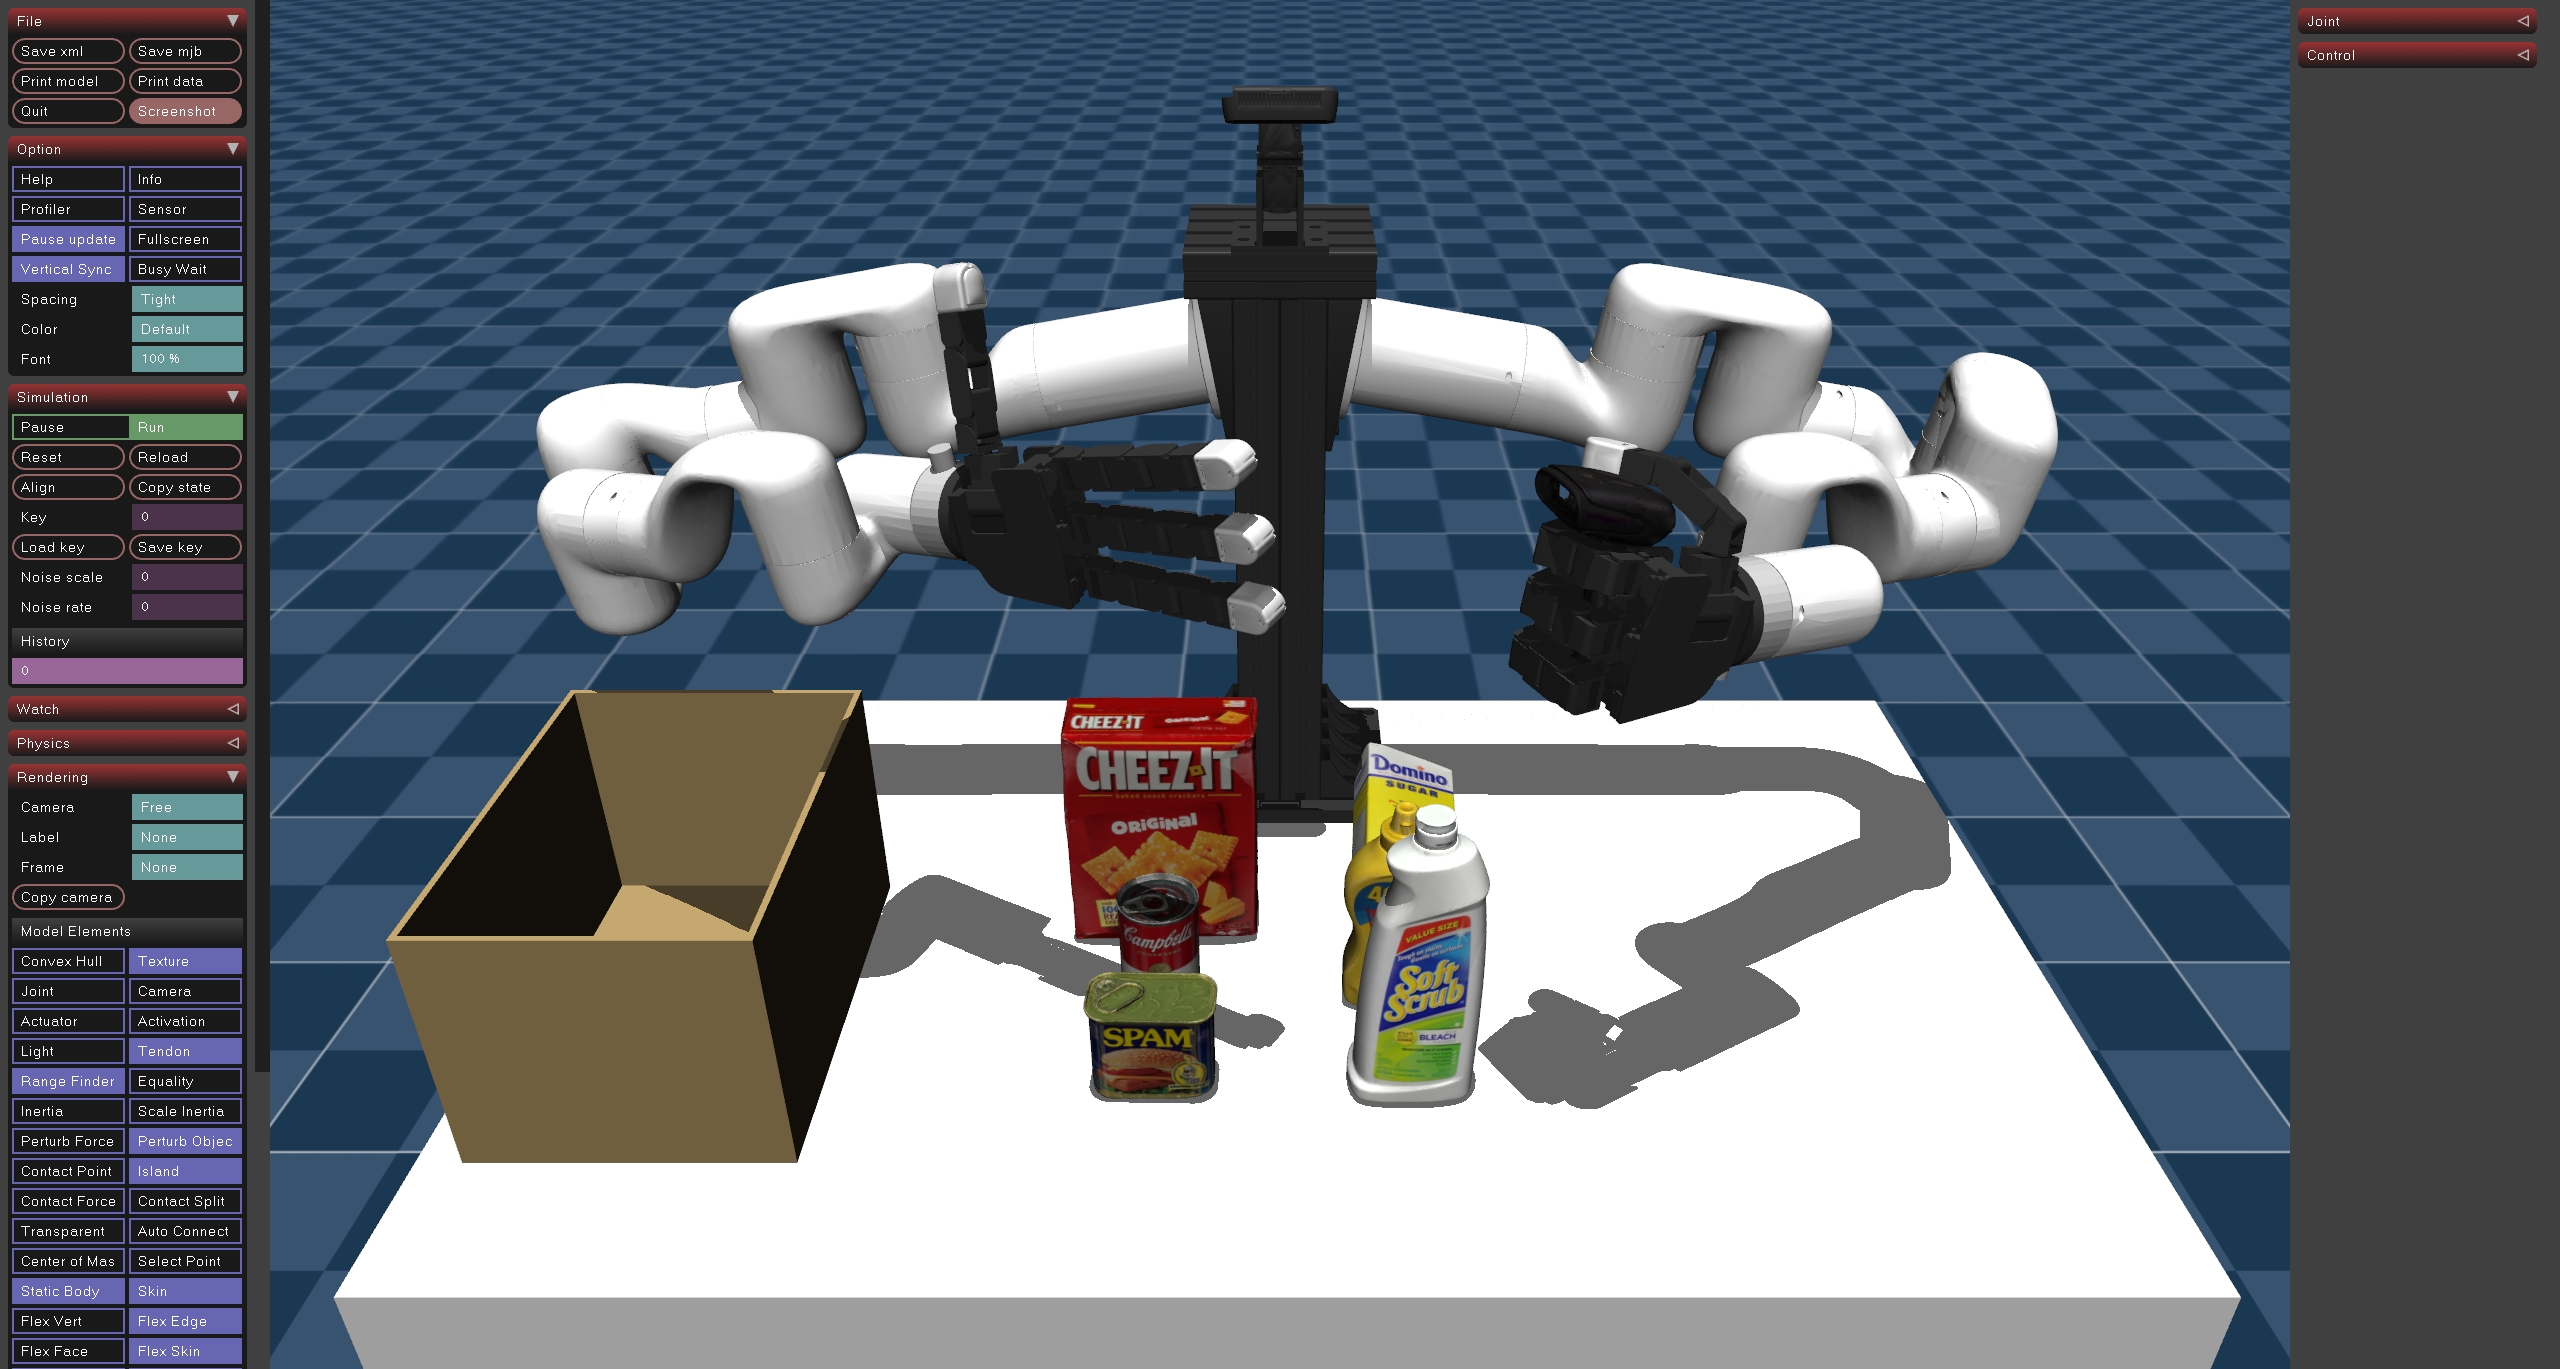
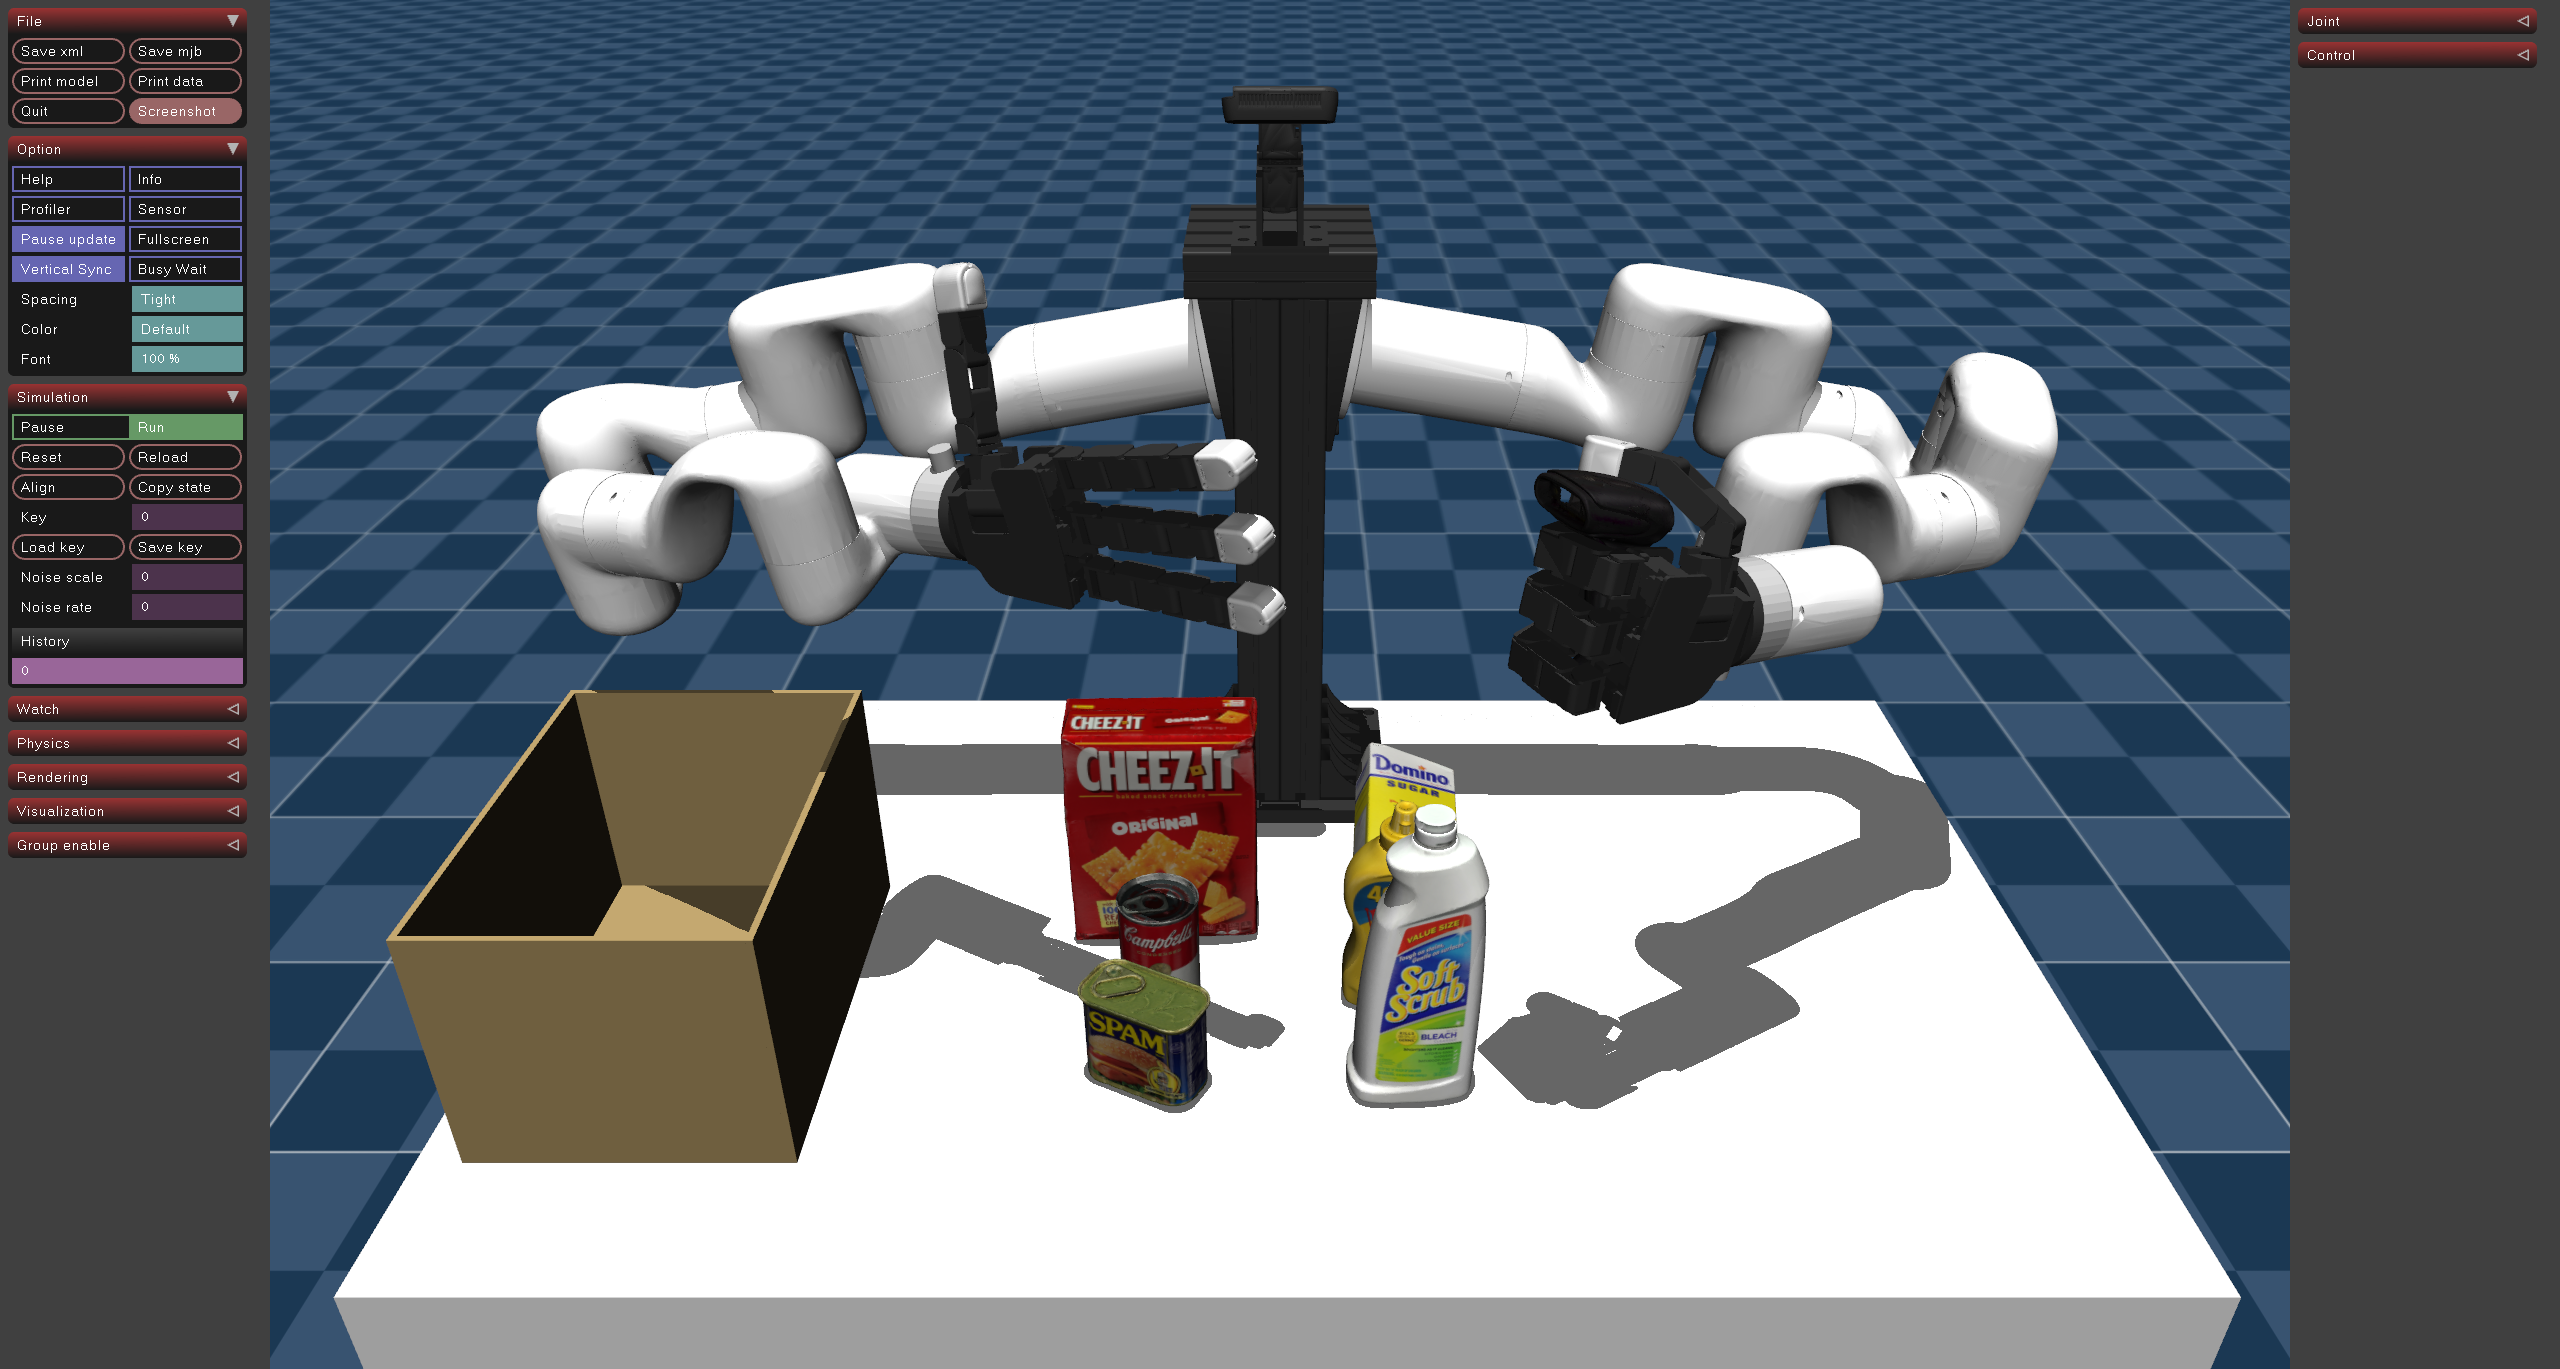
Remove dependency on dm_control package

diff --git a/make_mjcf_model.py b/make_mjcf_model.py
@@ -1,7 +1,6 @@
 import os
 
 import mujoco
-from dm_control.utils import transformations
 from mujoco import viewer
 
 
@@ -30,7 +29,7 @@ if __name__ == '__main__':
     left_robot_arm = mujoco.MjSpec.from_file(robot_xml_path)
     left_robot_arm.modelname = 'xarm7_left'
     left_robot_arm_attachment_frame = scene.worldbody.add_frame(pos=[-0.05692, 0, 0.44761],
-                                                                quat=transformations.euler_to_quat([mujoco.mjPI/2, 0, -mujoco.mjPI*5/9], ordering='ZYX'))
+                                                                euler=[0, -mujoco.mjPI*5/9, mujoco.mjPI/2])
     
     # Left robot hand (allegro)
     left_robot_hand_xml_path = os.path.join(os.getcwd(), 'wonik_allegro', 'left_hand.xml')
@@ -42,7 +41,7 @@ if __name__ == '__main__':
                         rgba=[0.2, 0.2, 0.2, 1],
                         pos=[0, 0, -0.005])
     left_robot_hand_attachment_frame = left_mount.add_frame(pos=[0, 0, 0.095],
-                                                            quat=transformations.euler_to_quat([0, -mujoco.mjPI/2, 0]))
+                                                            euler=[0, -mujoco.mjPI/2, 0])
     left_robot_arm.attach(child=left_robot_hand,
                           prefix=left_robot_hand.modelname + '/',
                           frame=left_robot_hand_attachment_frame)
@@ -54,7 +53,7 @@ if __name__ == '__main__':
     right_robot_arm = mujoco.MjSpec.from_file(robot_xml_path)
     right_robot_arm.modelname = 'xarm7_right'
     right_robot_arm_attachment_frame = scene.worldbody.add_frame(pos=[0.05692, 0, 0.44761],
-                                                                 quat=transformations.euler_to_quat([mujoco.mjPI/2, 0, mujoco.mjPI*5/9], ordering='ZYX'))
+                                                                 euler=[0, mujoco.mjPI*5/9, mujoco.mjPI/2])
     
     # Right robot hand (allegro)
     right_robot_hand_xml_path = os.path.join(os.getcwd(), 'wonik_allegro', 'right_hand.xml')
@@ -66,7 +65,7 @@ if __name__ == '__main__':
                          rgba=[0.2, 0.2, 0.2, 1],
                          pos=[0, 0, -0.005])
     right_robot_hand_attachment_frame = right_mount.add_frame(pos=[0, 0, 0.095],
-                                                              quat=transformations.euler_to_quat([0, -mujoco.mjPI/2, 0]))
+                                                              euler=[0, -mujoco.mjPI/2, 0])
     right_robot_arm.attach(child=right_robot_hand,
                            prefix=right_robot_hand.modelname + '/',
                            frame=right_robot_hand_attachment_frame)
@@ -80,9 +79,8 @@ if __name__ == '__main__':
     # barcode_scanner.default.mesh.inertia = 'exact'
     barcode_scanner.default.geom.condim = 6
     barcode_scanner.default.geom.priority = 1
-    barcode_scanner.body('barcode_scanner').add_freejoint()
     barcode_scanner_attachment_frame = scene.worldbody.add_frame(pos=[-0.5, 0.45, 0.2],
-                                                                 quat=transformations.euler_to_quat([mujoco.mjPI, 0, mujoco.mjPI]))
+                                                                 euler=[mujoco.mjPI, 0, mujoco.mjPI])
     scene.attach(child=barcode_scanner,
                  prefix=barcode_scanner.modelname + '/',
                  frame=barcode_scanner_attachment_frame)
@@ -133,20 +131,12 @@ if __name__ == '__main__':
     
     # Object
     ycb_object_init_pose = [ # [x, y, z, roll, pitch, yaw] relative to world frame
-        [0.1, 0.25, 0.12, 0, 0, mujoco.mjPI/2], # 003_cracker_box
-        [-0.1, 0.25, 0.12, 0, 0, mujoco.mjPI/2], # 004_sugar_box
-        [0.1, 0.35, 0.12, 0, 0, mujoco.mjPI/2], # 005_tomato_soup_can
-        [-0.1, 0.35, 0.12, 0, 0, mujoco.mjPI/2], # 006_mustard_bottle
-        [0.1, 0.45, 0.12, mujoco.mjPI/2, mujoco.mjPI/2, 0], # 010_potted_meat_can
-        [-0.1, 0.45, 0.12, 0, 0, -mujoco.mjPI/2] # 021_bleach_cleanser
-    ]
-    ycb_object_barcode_pose = [ # [x, y, z, roll, pitch, yaw] relative to body frame
-        [-0.010259, 0.050995, -0.10498, mujoco.mjPI, 0, -mujoco.mjPI/2], # 003_cracker_box
-        [0.004512, 0.025381, -0.085659, mujoco.mjPI, 0, -mujoco.mjPI/2], # 004_sugar_box
-        [-0.025168, -0.023411, -0.028418, mujoco.mjPI/2, -mujoco.mjPI/4, 0], # 005_tomato_soup_can
-        [-0.026312, -0.000525, -0.043586, 0, -mujoco.mjPI/2, -mujoco.mjPI/2], # 006_mustard_bottle
-        [-0.00522, 0.005731, 0.047954, 0, 0, mujoco.mjPI/2], # 010_potted_meat_can
-        [0.031735, 0.01317, -0.073959, 0, mujoco.mjPI/2, mujoco.mjPI*88/180] # 021_bleach_cleanser
+        [0.1, 0.25, 0.12, 0.707107, 0, 0, 0.707107], # 003_cracker_box
+        [-0.1, 0.25, 0.12, 0.707107, 0, 0, 0.707107], # 004_sugar_box
+        [0.1, 0.35, 0.12, 0.707107, 0, 0, 0.707107], # 005_tomato_soup_can
+        [-0.1, 0.35, 0.12, 0.707107, 0, 0, 0.707107], # 006_mustard_bottle
+        [0.1, 0.45, 0.12, 0.5, 0.5, 0.5, 0.5], # 010_potted_meat_can
+        [-0.1, 0.45, 0.12, 0.707107, 0, 0, -0.707107] # 021_bleach_cleanser
     ]
     ycb_object_file_dir = os.path.join(os.getcwd(), 'ycb')
     ycb_object_name_list = os.listdir(ycb_object_file_dir)
@@ -155,30 +145,16 @@ if __name__ == '__main__':
         xml_file_name = [file_name for file_name in file_names if file_name.lower().endswith('.xml')][0]
         ycb_object_xml_path = os.path.join(ycb_object_file_dir, ycb_object_name, xml_file_name)
         ycb_object = mujoco.MjSpec.from_file(ycb_object_xml_path)
-        ycb_object.body(ycb_object.modelname).add_freejoint()
         # ycb_object.default.mesh.inertia = 'exact'
         ycb_object.default.geom.condim = 6
         ycb_object.default.geom.priority = 1
-        # Add barcode site
-        ycb_object.body(ycb_object.modelname).add_site(name='barcode',
-                                                       group=4,
-                                                       size=[0.005, 0, 0], # TODO: 2~3번째 값은 필요 없는 값 (mujoco 오류?)
-                                                       rgba=[1, 0, 0, 1],
-                                                       pos=ycb_object_barcode_pose[id][:3],
-                                                       quat=transformations.euler_to_quat(ycb_object_barcode_pose[id][3:]))
         ycb_object_attachment_frame = scene.worldbody.add_frame(pos=ycb_object_init_pose[id][:3],
-                                                                quat=transformations.euler_to_quat(ycb_object_init_pose[id][3:]))
+                                                                quat=ycb_object_init_pose[id][3:])
         scene.attach(child=ycb_object,
                      prefix=ycb_object.modelname + '/',
                      frame=ycb_object_attachment_frame)
     
     # Option
-    # scene.option.timestep= 0.001
-    # scene.option.o_solref = [0.002, 1]
-    # scene.option.integrator = mujoco.mjtIntegrator.mjINT_IMPLICIT
-    # scene.option.cone = mujoco.mjtCone.mjCONE_ELLIPTIC
-    # scene.option.enableflags |= mujoco.mjtEnableBit.mjENBL_OVERRIDE
-    # scene.option.enableflags |= mujoco.mjtEnableBit.mjENBL_MULTICCD
     # scene.compiler.inertiagrouprange = [0, 2]
     
     # Initial state
@@ -188,12 +164,12 @@ if __name__ == '__main__':
         + [0, 0, 0, mujoco.mjPI/6, -mujoco.mjPI, 0, mujoco.mjPI] # right arm
         + [0]*16 # right hand
         + [-0.18, 0.45, 0.49, 0.410932, 0.312626, 0.60471, 0.606404] # barcode scanner
-        + ycb_object_init_pose[0][:3] + transformations.euler_to_quat(ycb_object_init_pose[0][3:]).tolist() # 003_cracker_box
-        + ycb_object_init_pose[1][:3] + transformations.euler_to_quat(ycb_object_init_pose[1][3:]).tolist() # 004_sugar_box
-        + ycb_object_init_pose[2][:3] + transformations.euler_to_quat(ycb_object_init_pose[2][3:]).tolist() # 005_tomato_soup_can
-        + ycb_object_init_pose[3][:3] + transformations.euler_to_quat(ycb_object_init_pose[3][3:]).tolist() # 006_mustard_bottle
-        + ycb_object_init_pose[4][:3] + transformations.euler_to_quat(ycb_object_init_pose[4][3:]).tolist() # 010_potted_meat_can
-        + ycb_object_init_pose[5][:3] + transformations.euler_to_quat(ycb_object_init_pose[5][3:]).tolist() # 021_bleach_cleanser
+        + ycb_object_init_pose[0] # 003_cracker_box
+        + ycb_object_init_pose[1] # 004_sugar_box
+        + ycb_object_init_pose[2] # 005_tomato_soup_can
+        + ycb_object_init_pose[3] # 006_mustard_bottle
+        + ycb_object_init_pose[4] # 010_potted_meat_can
+        + ycb_object_init_pose[5] # 021_bleach_cleanser
     )
     initial_ctrl = initial_qpos[:46]
     key = scene.add_key(qpos=initial_qpos, ctrl=initial_ctrl)
@@ -203,4 +179,7 @@ if __name__ == '__main__':
     model = scene.compile()
     data = mujoco.MjData(model)
     # scene.to_file(os.path.join(os.getcwd(), 'mjcf_model.xml'))
+    # mujoco.mj_printModel(model, 'model.txt')
+    # mujoco.mj_printData(model, data, 'data.txt')
     viewer.launch(model, data)
+    
